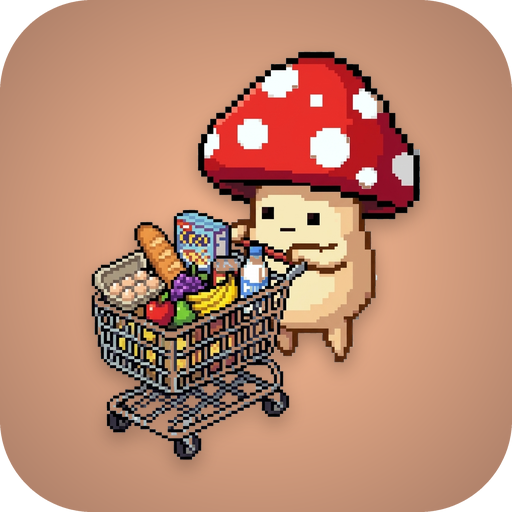
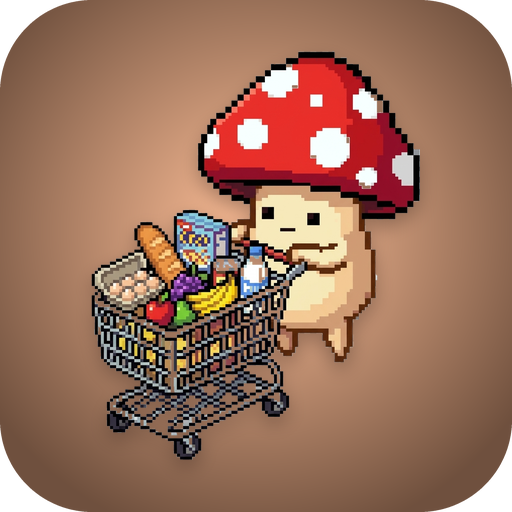
Ícono: degradado más marcado, aún más claro que el original

diff --git a/index.html b/index.html
@@ -1667,7 +1667,7 @@
   };
 
   // subir APP_VERSION y agregar una entrada acá en cada cambio que valga la pena avisar
-  const APP_VERSION = '2.16.2';
+  const APP_VERSION = '2.16.3';
   const CHANGELOG = {
     '1.1.0': [
       'Ahora te avisamos acá cuando la app tiene novedades, en vez de que te enteres por sorpresa.'
@@ -1895,6 +1895,9 @@
     ],
     '2.16.2': [
       'El fondo del ícono de BonaSuper es más claro: se veía demasiado oscuro.'
+    ],
+    '2.16.3': [
+      'Ajuste del ícono de BonaSuper: vuelve el degradado marcado de claro a oscuro, pero con colores más claros que antes.'
     ]
   };
   const SEEN_VERSION_KEY = 'lista_super_seen_version';

diff --git a/sw.js b/sw.js
@@ -1,7 +1,7 @@
 // Service Worker - BonaSuper
 // Cachea los archivos de la app la primera vez para que funcione sin internet después.
 
-const CACHE_NAME = 'lista-super-v66';
+const CACHE_NAME = 'lista-super-v67';
 const FILES_TO_CACHE = [
   './',
   './index.html',
